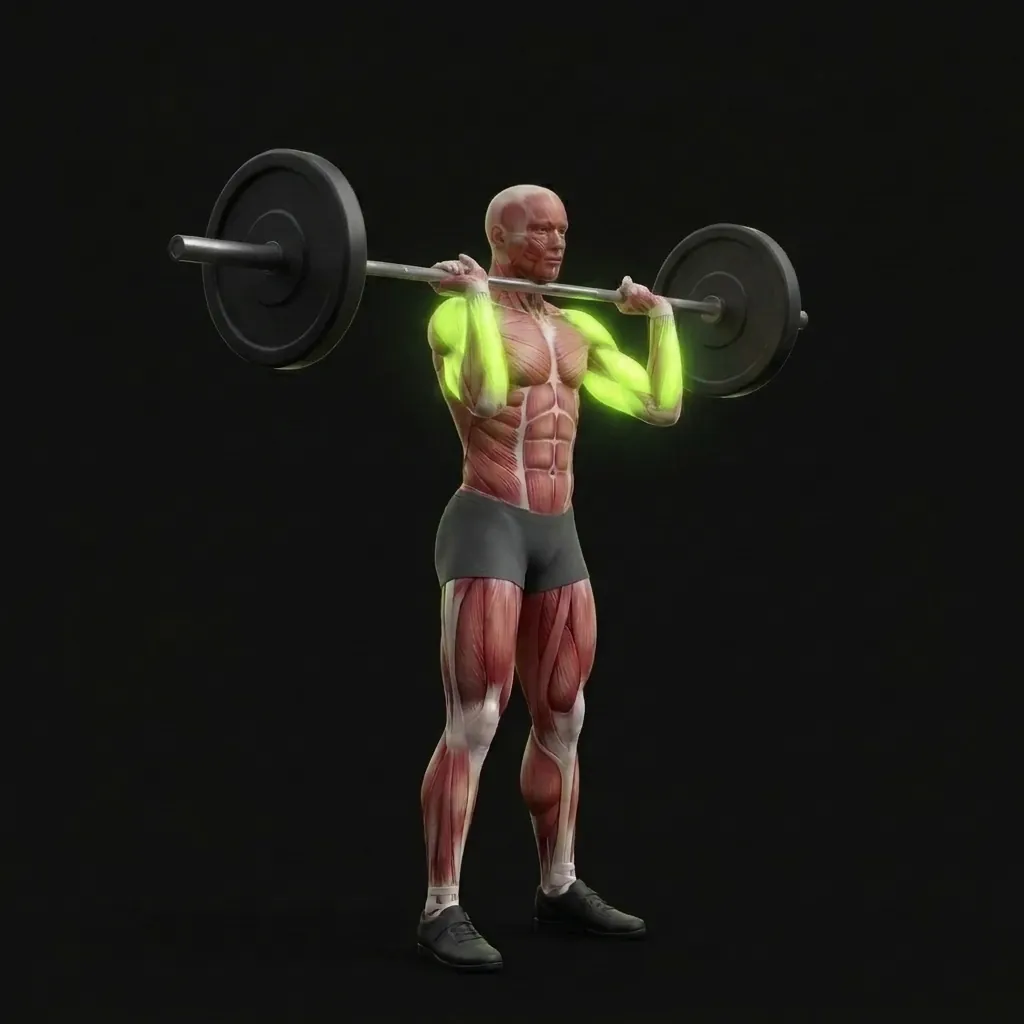
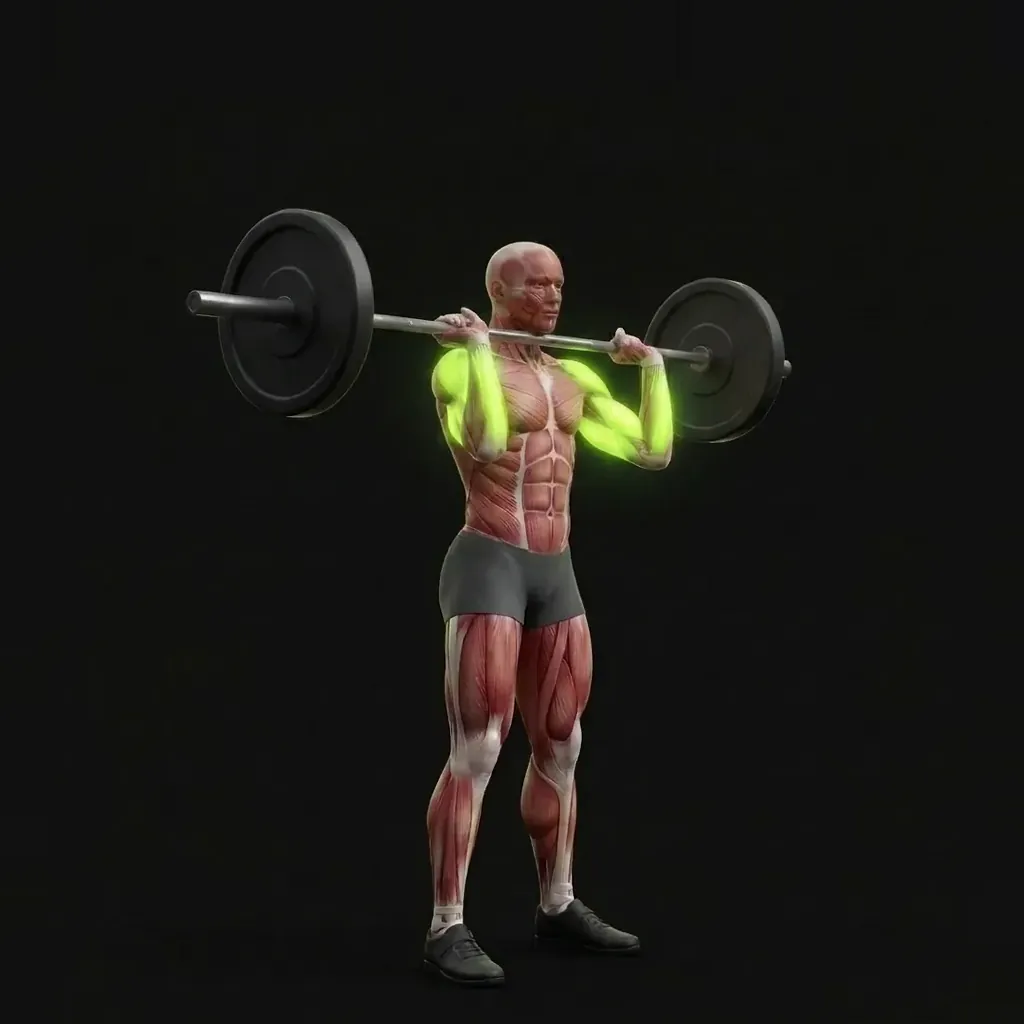
Flow-3 rasmlari: 11 mashq yangilandi, siljigan kadrlar tekislandi
- Asosiy kadr: ohp (to'liq lockout), calf-raise (tovon baland), db-shrug (yelka baland),
  knee-push-up (pastki nuqta); dead-bug boshlang'ich holati bilan ilovaga qaytdi.
- Ikkinchi kadr: push-up, glute-bridge, side-plank, hanging-leg-raise, machine-chest-press,
  doorway-chest, knee-push-up, calf-raise, db-shrug; ohp ning eski B kadri yangi kameraga moslandi.
- scripts/images/align_frames.py: kamerasi siljigan B kadrni A ga tekislash (qimirlamaydigan
  qismlar bo'yicha masshtab, burilish, siljish).
- place_flow.py: <auto> yozuviga faqat ikkinchi kadr qo'shish.
- calf-raise yorliqlari qayta joylandi; ohp bosqichi "Yuqori nuqta".
- docs/image-regen.md: rad etilganlar va qayta qilinadiganlar ro'yxati.

Claude-Session: https://claude.ai/code/session_01YMj6wH5fmDxefKDcAM65Dx

diff --git a/src/data/illustrations.ts b/src/data/illustrations.ts
@@ -117,9 +117,9 @@ export const ILLUSTRATIONS: Partial<Record<string, Illustration>> = {
   },
   ohp: {
     src: img('ohp.webp'),
-    phase: 'Itarish',
+    phase: 'Yuqori nuqta',
     pair: { src: img('alt/ohp.webp'), phase: 'Boshlang‘ich holat' },
-    alt: 'Turib shtanga jimi, itarish: to‘g‘ri texnika; ishlayotgan mushaklar lime rangda yonmoqda',
+    alt: 'Turib shtanga jimi, yuqori nuqta: to‘g‘ri texnika; ishlayotgan mushaklar lime rangda yonmoqda',
     labels: [
       { key: 'deltAnt', name: 'Old delta', x: 44.5, y: 30, side: 'l', ly: 44 },
       { key: 'deltLat', name: 'O‘rta delta', x: 58.5, y: 29, side: 'r', ly: 44 },
@@ -184,6 +184,7 @@ export const ILLUSTRATIONS: Partial<Record<string, Illustration>> = {
   'push-up': {
     src: img('push-up.webp'),
     phase: 'Yuqori nuqta',
+    pair: { src: img('alt/push-up.webp'), phase: 'Pastki nuqta' },
     alt: 'Otjimaniya, yuqori nuqta: to‘g‘ri texnika; ishlayotgan mushaklar lime rangda yonmoqda',
     labels: [
       { key: 'pecMid', name: 'Ko‘krak (o‘rta)', x: 74.8, y: 47.8, side: 'l', ly: 26 },
@@ -452,6 +453,7 @@ export const ILLUSTRATIONS: Partial<Record<string, Illustration>> = {
   'glute-bridge': {
     src: img('glute-bridge.webp'),
     phase: 'Yuqori nuqta',
+    pair: { src: img('alt/glute-bridge.webp'), phase: 'Pastki nuqta' },
     alt: 'Ko‘prikcha, yuqori nuqta: to‘g‘ri texnika; ishlayotgan mushaklar lime rangda yonmoqda',
     labels: [
       { key: 'gluteMax', name: 'Katta dumba', x: 58.6, y: 73.7, side: 'l', ly: 40 },
@@ -466,15 +468,16 @@ export const ILLUSTRATIONS: Partial<Record<string, Illustration>> = {
   'calf-raise': {
     src: img('calf-raise.webp'),
     phase: 'Yuqori nuqta',
+    pair: { src: img('alt/calf-raise.webp'), phase: 'Pastki nuqta' },
     alt: 'Boldir ko‘tarish, yuqori nuqta: to‘g‘ri texnika; ishlayotgan mushaklar lime rangda yonmoqda',
     labels: [
-      { key: 'gastrocnemius', name: 'Boldir', x: 44, y: 75, side: 'l', ly: 70 },
-      { key: 'soleus', name: 'Kambalasimon', x: 46, y: 83, side: 'r', ly: 80 },
+      { key: 'gastrocnemius', name: 'Boldir', x: 45, y: 68, side: 'l', ly: 62 },
+      { key: 'soleus', name: 'Kambalasimon', x: 46, y: 74.5, side: 'r', ly: 78 },
     ],
     checks: [
       { text: 'Tana tik', x: 48, y: 35, side: 'r', ly: 30 },
-      { text: 'Tizzalar to‘g‘ri', x: 47, y: 67, side: 'r', ly: 60 },
-      { text: 'Oyoq uchlari zina chetida', x: 52.2, y: 93, side: 'r', ly: 88 },
+      { text: 'Tizzalar to‘g‘ri', x: 49.5, y: 62.3, side: 'r', ly: 56 },
+      { text: 'Oyoq uchlari zina chetida', x: 53.5, y: 85.5, side: 'r', ly: 90 },
     ],
   },
   'db-bench': {
@@ -495,6 +498,7 @@ export const ILLUSTRATIONS: Partial<Record<string, Illustration>> = {
   'machine-chest-press': {
     src: img('machine-chest-press.webp'),
     phase: 'Boshlang‘ich holat',
+    pair: { src: img('alt/machine-chest-press.webp'), phase: 'Itarilgan holat' },
     alt: 'Ko‘krak press trenajyori, boshlang‘ich holat: to‘g‘ri texnika; ishlayotgan mushaklar lime rangda yonmoqda',
     labels: [
       { key: 'pecMid', name: 'Ko‘krak (o‘rta)', x: 45, y: 32, side: 'l', ly: 14 },
@@ -785,6 +789,7 @@ export const ILLUSTRATIONS: Partial<Record<string, Illustration>> = {
   'db-shrug': {
     src: img('db-shrug.webp'),
     phase: 'Yuqori nuqta',
+    pair: { src: img('alt/db-shrug.webp'), phase: 'Pastki nuqta' },
     alt: 'Gantel bilan yelka qisish, yuqori nuqta: to‘g‘ri texnika; ishlayotgan mushaklar lime rangda yonmoqda',
     labels: [
       { key: 'trapUpper', name: 'Trapetsiya (yuqori)', x: 45, y: 17, side: 'l', ly: 20 },
@@ -964,6 +969,7 @@ export const ILLUSTRATIONS: Partial<Record<string, Illustration>> = {
   'hanging-leg-raise': {
     src: img('hanging-leg-raise.webp'),
     phase: 'Yuqori nuqta',
+    pair: { src: img('alt/hanging-leg-raise.webp'), phase: 'Pastki nuqta' },
     alt: 'Turnikda oyoq ko‘tarish, yuqori nuqta: to‘g‘ri texnika; ishlayotgan mushaklar lime rangda yonmoqda',
     labels: [
       { key: 'rectusAbdominis', name: 'Qorin to‘g‘ri mushagi', x: 41, y: 42, side: 'r', ly: 30 },
@@ -1109,7 +1115,12 @@ export const ILLUSTRATIONS: Partial<Record<string, Illustration>> = {
     alt: 'Reverans hamla, pastki nuqta: to‘g‘ri texnika; ishlayotgan mushaklar lime rangda yonmoqda',
     pair: { src: img('alt/curtsy-lunge.webp'), phase: 'Boshlang‘ich holat' },
   },
-  'doorway-chest': { src: img('doorway-chest.webp'), phase: 'Cho‘zilgan holat', alt: 'Eshik romida ko‘krakni cho‘zish, cho‘zilgan holat: to‘g‘ri texnika; cho‘ziladigan mushaklar lime rangda' },
+  'doorway-chest': {
+    src: img('doorway-chest.webp'),
+    phase: 'Cho‘zilgan holat',
+    alt: 'Eshik romida ko‘krakni cho‘zish, cho‘zilgan holat: to‘g‘ri texnika; cho‘ziladigan mushaklar lime rangda',
+    pair: { src: img('alt/doorway-chest.webp'), phase: 'Boshlang‘ich holat' },
+  },
   'down-dog': {
     src: img('down-dog.webp'),
     phase: 'Cho‘zilgan holat',
@@ -1158,7 +1169,6 @@ export const ILLUSTRATIONS: Partial<Record<string, Illustration>> = {
     alt: 'Tiz cho‘kib son bukuvchisini cho‘zish, cho‘zilgan holat: to‘g‘ri texnika; cho‘ziladigan mushaklar lime rangda',
     pair: { src: img('alt/hip-flexor-stretch.webp'), phase: 'Boshlang‘ich holat' },
   },
-  'knee-push-up': { src: img('knee-push-up.webp'), phase: 'Yuqori nuqta', alt: 'Tizzada otjimaniya, yuqori nuqta: to‘g‘ri texnika; ishlayotgan mushaklar lime rangda yonmoqda' },
   'mountain-climber': {
     src: img('mountain-climber.webp'),
     phase: 'Qisqargan holat',
@@ -1213,7 +1223,12 @@ export const ILLUSTRATIONS: Partial<Record<string, Illustration>> = {
     alt: 'Yonboshlab oyoq ko‘tarish, yuqori nuqta: to‘g‘ri texnika; ishlayotgan mushaklar lime rangda yonmoqda',
     pair: { src: img('alt/side-leg-raise.webp'), phase: 'Boshlang‘ich holat' },
   },
-  'side-plank': { src: img('side-plank.webp'), phase: 'Ushlab turish', alt: 'Yon planka, ushlab turish: to‘g‘ri texnika; ishlayotgan mushaklar lime rangda yonmoqda' },
+  'side-plank': {
+    src: img('side-plank.webp'),
+    phase: 'Ushlab turish',
+    alt: 'Yon planka, ushlab turish: to‘g‘ri texnika; ishlayotgan mushaklar lime rangda yonmoqda',
+    pair: { src: img('alt/side-plank.webp'), phase: 'Boshlang‘ich holat' },
+  },
   'single-leg-bridge': {
     src: img('single-leg-bridge.webp'),
     phase: 'Yuqori nuqta',
@@ -1251,5 +1266,12 @@ export const ILLUSTRATIONS: Partial<Record<string, Illustration>> = {
     alt: 'Devorga suyanib o‘tirish, ushlab turish: to‘g‘ri texnika; ishlayotgan mushaklar lime rangda yonmoqda',
     pair: { src: img('alt/wall-sit.webp'), phase: 'Boshlang‘ich holat' },
   },
+  'knee-push-up': {
+    src: img('knee-push-up.webp'),
+    phase: 'Pastki nuqta',
+    alt: 'Tizzada otjimaniya, pastki nuqta: to‘g‘ri texnika; ishlayotgan mushaklar lime rangda yonmoqda',
+    pair: { src: img('alt/knee-push-up.webp'), phase: 'Boshlang‘ich holat' },
+  },
+  'dead-bug': { src: img('dead-bug.webp'), phase: 'Boshlang‘ich holat', alt: '«O‘lik qo‘ng‘iz», boshlang‘ich holat: to‘g‘ri texnika; ishlayotgan mushaklar lime rangda yonmoqda' },
   // </auto>
 };

diff --git a/scripts/images/align_frames.py b/scripts/images/align_frames.py
@@ -1,0 +1,116 @@
+# Kamerasi siljigan ikkinchi kadrni (B) asosiy kadrga (A) moslash: o'xshashlik o'zgarishi (+ ixtiyoriy gorizontal cho'zish k),
+# faqat ikki kadrda ham qimirlamaydigan qismlar (ROI, rasm ulushida) bo'yicha. Qo'pol qidiruv FFT bilan, so'ng nozik sozlash.
+# Ishlatish: python3 -I scripts/images/align_frames.py <A> <B> <chiqish.png> "x0,y0,x1,y1;..." [--s=0.85,1.2] [--a=3] [--k=0.1] [--tm=0.2] [--mirror]
+import sys
+import numpy as np
+from PIL import Image
+
+ref_p, mov_p, out_p, roi = sys.argv[1:5]
+opt = {a.split('=')[0][2:]: a.split('=')[1] for a in sys.argv[5:] if '=' in a}
+smin, smax = map(float, opt.get('s', '0.85,1.2').split(','))
+amax = float(opt.get('a', '3'))
+kmax = float(opt.get('k', '0'))
+TM = float(opt.get('tm', '0.2'))
+ROIS = [tuple(map(float, r.split(','))) for r in roi.split(';')]
+R = Image.open(ref_p).convert('RGB')
+M = Image.open(mov_p).convert('RGB')
+if '--mirror' in sys.argv:
+    M = M.transpose(Image.FLIP_LEFT_RIGHT)
+N = R.size[0]
+
+
+def gray(im, n):
+    return np.asarray(im.resize((n, n), Image.LANCZOS).convert('L')).astype(np.float64) / 255
+
+
+def sample(img, xs, ys):
+    h, w = img.shape
+    ok = (xs >= 0) & (ys >= 0) & (xs <= w - 1.001) & (ys <= h - 1.001)
+    xs = np.clip(xs, 0, w - 1.001); ys = np.clip(ys, 0, h - 1.001)
+    xi = xs.astype(int); yi = ys.astype(int); fx = xs - xi; fy = ys - yi
+    v = (img[yi, xi] * (1 - fx) * (1 - fy) + img[yi, xi + 1] * fx * (1 - fy) + img[yi + 1, xi] * (1 - fx) * fy + img[yi + 1, xi + 1] * fx * fy)
+    return v, ok
+
+
+def inv_map(xs, ys, p, n):
+    s, a, k, tx, ty = p
+    c = n / 2
+    th = np.deg2rad(a)
+    dx, dy = xs - c - tx * n, ys - c - ty * n
+    rx = np.cos(th) * dx + np.sin(th) * dy
+    ry = -np.sin(th) * dx + np.cos(th) * dy
+    return rx / (s * (1 + k)) + c, ry / s + c
+
+
+def mask(n):
+    m = np.zeros((n, n))
+    for x0, y0, x1, y1 in ROIS:
+        m[int(y0 * n):int(y1 * n), int(x0 * n):int(x1 * n)] = 1
+    return m
+
+
+def cost(rg, mg, m, p, n):
+    ys, xs = np.nonzero(m)
+    mx, my = inv_map(xs.astype(float), ys.astype(float), p, n)
+    v, _ = sample(mg, mx, my)
+    return float(np.mean((v - rg[ys, xs]) ** 2))
+
+
+# 1) qo'pol: har (s, a, k) uchun siljish FFT bilan
+n = 128
+rg, mg, m = gray(R, n), gray(M, n), mask(n)
+F = np.fft.rfft2
+I = np.fft.irfft2
+P = 2 * n
+yy, xx = np.mgrid[0:n, 0:n].astype(float)
+Fm = F(m, (P, P)); Frm = F(m * rg, (P, P))
+const = np.sum(m * rg ** 2)
+tmax = int(TM * n)
+best = (1e9, None)
+for s in np.arange(smin, smax + 1e-6, 0.02):
+    for a in (np.arange(-amax, amax + 1e-6, 1.0) if amax else [0.0]):
+        for k in (np.arange(-kmax, kmax + 1e-6, 0.05) if kmax else [0.0]):
+            mx, my = inv_map(xx, yy, (s, a, k, 0, 0), n)
+            W, ok = sample(mg, mx, my)
+            W = W * ok
+            # SSD(t) = sum m(x) W(x-t)^2 - 2 sum m R W(x-t) + const ;  sum_x g(x) W(x-t) = corr
+            c1 = I(Fm * np.conj(F(W ** 2, (P, P))), (P, P))
+            c2 = I(Frm * np.conj(F(W, (P, P))), (P, P))
+            ssd = c1 - 2 * c2 + const  # index t (mod P)
+            for ty in range(-tmax, tmax + 1):
+                row = ssd[ty % P]
+                idx = np.array([tx % P for tx in range(-tmax, tmax + 1)])
+                j = int(np.argmin(row[idx]))
+                if row[idx][j] < best[0]:
+                    best = (row[idx][j], (s, a, k, (j - tmax) / n, ty / n))
+p = list(best[1])
+# 2) nozik: koordinatali tushish
+for n, steps in ((256, (0.01, 0.4, 0.02, 1 / 256, 1 / 256)), (512, (0.004, 0.15, 0.008, 1 / 512, 1 / 512)), (1024, (0.002, 0.06, 0.004, 0.5 / 1024, 0.5 / 1024))):
+    rg, mg, m = gray(R, n), gray(M, n), mask(n)
+    cur = cost(rg, mg, m, p, n)
+    for _ in range(40):
+        improved = False
+        for i, st in enumerate(steps):
+            if (i == 1 and not amax) or (i == 2 and not kmax):
+                continue
+            for d in (-1, 1):
+                q = p.copy(); q[i] += d * st
+                c = cost(rg, mg, m, q, n)
+                if c < cur:
+                    cur, p, improved = c, q, True
+        if not improved:
+            break
+s, a, k, tx, ty = p
+c0 = cost(gray(R, 1024), gray(M, 1024), mask(1024), (1, 0, 0, 0, 0), 1024)
+print(f'{mov_p.split("/")[-2]}: s={s:.3f} k={k:+.3f} a={a:+.2f} tx={tx*N:+.0f}px ty={ty*N:+.0f}px  xato {c0:.5f} -> {cur:.5f}')
+# to'liq o'lchamda (chetlar takrorlanadi)
+PAD = 300
+Mp = Image.fromarray(np.pad(np.asarray(M), ((PAD, PAD), (PAD, PAD), (0, 0)), mode='edge'))
+c = N / 2
+th = np.deg2rad(a)
+sx, sy = s * (1 + k), s
+A_, B_ = np.cos(th) / sx, np.sin(th) / sx
+D_, E_ = -np.sin(th) / sy, np.cos(th) / sy
+cx, cy = c + tx * N, c + ty * N
+data = (A_, B_, -A_ * cx - B_ * cy + c + PAD, D_, E_, -D_ * cx - E_ * cy + c + PAD)
+Mp.transform((N, N), Image.AFFINE, data, resample=Image.BICUBIC).save(out_p)

diff --git a/scripts/images/place_flow.py b/scripts/images/place_flow.py
@@ -111,6 +111,12 @@ for d in sorted(os.listdir(res_dir)):
             alt = f"{name}, {phase.lower()}: to‘g‘ri texnika; ishlayotgan mushaklar lime rangda yonmoqda"
             pair = f", pair: {{ src: img('alt/{eid}.webp'), phase: '{job['pair']['phaseUz']}' }}" if has_b else ''
             auto_body += f"  '{eid}': {{ src: img('{eid}.webp'), phase: '{phase}', alt: '{alt}'{pair} }},\n"
+        else:
+            # <auto> blokidagi yozuvga faqat ikkinchi kadr qo'shiladi
+            m = re.search(r"^  '?" + re.escape(eid) + r"'?: \{[^\n]*\},\n", auto_body, re.M)
+            if m and 'pair:' not in m.group(0):
+                line = m.group(0)
+                auto_body = auto_body.replace(line, line[:-4] + f", pair: {{ src: img('alt/{eid}.webp'), phase: '{job['pair']['phaseUz']}' }} }},\n")
 
 open(ill_path, 'w', encoding='utf-8').write(head + '// <auto>' + auto_first + '\n' + auto_body + '  // </auto>' + tail)
 order = [m for m in re.findall(r"\{ id: '([a-zA-Z]+)'", open('src/data/catalog.ts', encoding='utf-8').read()) if m in eq_ids]

diff --git a/docs/image-regen.md b/docs/image-regen.md
@@ -132,19 +132,47 @@ Har mashq uchun ikki rasm kerak: boshlang'ich va oxirgi nuqta. Ilova ularni alma
 - **Eski rasmlar, ikkinchi kadr:** machine-shoulder-press, dips, db-fly, goblet-squat, hack-squat, hip-thrust, db-bench, cable-fly, inverted-row, back-extension, leg-extension, deadlift, db-rdl, bulgarian, ohp, front-squat.
 - **Ikkinchi kadri olib tashlanganlar:** chin-up va hanging-leg-raise — eski kadr yangi asosiy rasmga mos emas.
 
-**Qayta qilish kerak** (`flow-pack2.ts --only … --skipA … --skipB …`, Nano Banana Pro bilan). Nano Banana 2.1 bu tahrirlarni deyarli bajarmagan:
+## Flow-3 natijalari joylandi (2026-11-04)
+
+**Joylandi:**
+- **Asosiy kadr:**
+  - ohp — to'liq lockout; eski ikkinchi kadr yangi kameraga moslab qayta saqlandi;
+  - calf-raise — tovon baland, ikkinchi kadr bilan; yorliqlar qayta joylandi;
+  - db-shrug — yelka baland, ikkinchi kadr bilan;
+  - knee-push-up — pastki nuqta, ikkinchi kadr bilan;
+  - dead-bug — faqat boshlang'ich holat, bitta kadr. Endi ilovada ko'rinadi.
+- **Ikkinchi kadr:**
+  - hanging-leg-raise, machine-chest-press, doorway-chest;
+  - push-up, glute-bridge, side-plank — Flow kamerasi siljigan edi, kadr A ga tekislandi (`align_frames.py`).
+
+**Rad etildi** (hozirgisi qoldi):
+- pull-up, incline-bench, close-grip-bench — o'zgarish yo'q;
+- barbell-row — shtanga pastroq tushgan, qo'l ko'rinmaydi;
+- lateral-raise — gantel dastasi hamon bilak bo'ylab;
+- dead-bug A — boshdan orqaga cho'zilgan qo'l yo'q;
+- t-bar-row A/B — plastinalar shtangaga ulanmagan;
+- chin-up B — figura A dan ~1,6 baravar kichik, ushlash torroq, tekislab bo'lmaydi;
+- leg-press B — chanada plastina paydo bo'ladi, A kadrida esa u yo'q.
+
+**Qayta qilish kerak** (`flow-pack2.ts --only … --skipA … --skipB …`, Nano Banana Pro bilan):
 - **Asosiy kadr:**
   - pull-up — iyak turnikdan yuqori;
-  - ohp — lockout;
   - incline-bench, close-grip-bench — shtanga ko'krakda;
   - barbell-row — shtanga qoringa;
-  - lateral-raise — gantel dastasi;
-  - calf-raise — tovon baland;
-  - db-shrug — yelka baland;
-  - dead-bug — qarama-qarshi tomonlar;
+  - lateral-raise — dasta kaftda ko'ndalang, oldidan bitta disk ko'rinadi;
+  - dead-bug — qarama-qarshi qo'l (bosh orqasiga) va oyoq cho'zilgan;
   - leg-curl — tizza ko'proq bukilgan;
-  - t-bar-row — yuqori nuqta;
-  - knee-push-up — pastki nuqta.
-- **Ikkinchi kadr:** push-up, chin-up, glute-bridge, machine-chest-press, reverse-fly, hanging-leg-raise, leg-press (yuk platforma bilan birga), calf-raise, db-shrug, side-plank, doorway-chest, t-bar-row, knee-push-up.
+  - t-bar-row — yuk shtanga uchida, ikkala kadr bir kamerada;
+  - leg-press — ikkala kadrda yuk chanada.
+- **Ikkinchi kadr:**
+  - chin-up — A bilan bir xil masshtab va ushlash;
+  - reverse-fly;
+  - dead-bug — asosiy kadr tayyor bo'lgach.
+
+**Kamera siljigan B kadrni tekislash:**
+`python3 -I scripts/images/align_frames.py <A> <B> <chiqish.png> "x0,y0,x1,y1;…"`.
+ROI — ikki kadrda ham qimirlamaydigan joylar (oyoq uchi, kaft, jihoz), rasm ulushida.
+Masshtab, burilish, siljish va ixtiyoriy gorizontal cho'zish (`--k=0.1`) topiladi; bo'sh chetlar fon bilan to'ldiriladi.
+Natijani A bilan aralashtirib tekshiring.
 
 Generatsiya tartibi: `scripts/images/README.md` va `scripts/images/regen.mjs`.
